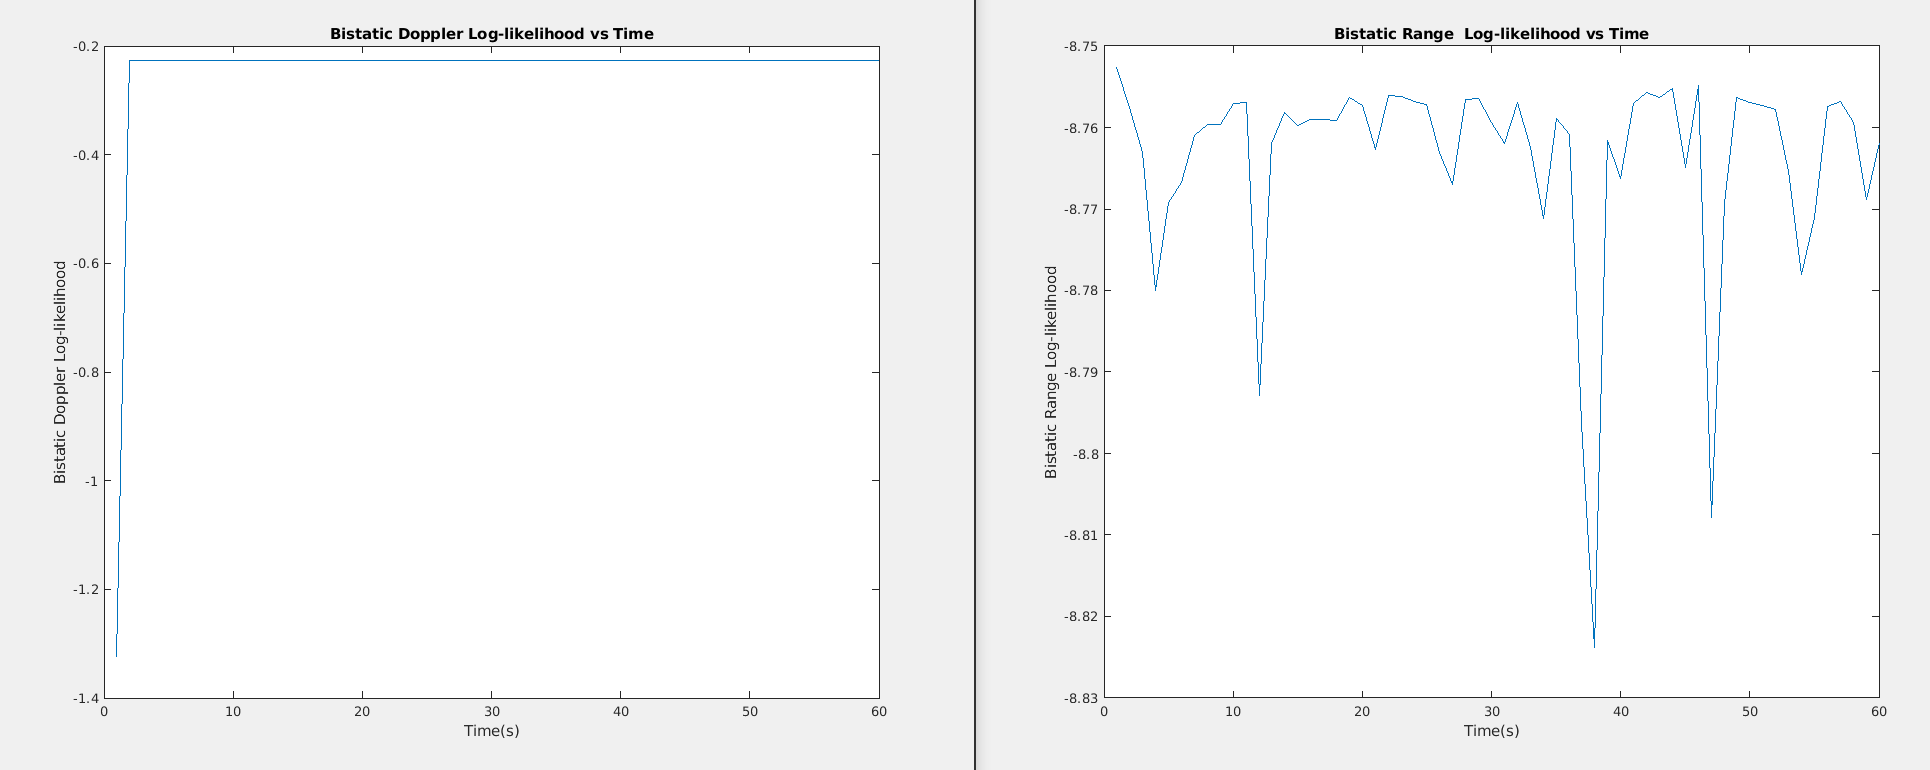
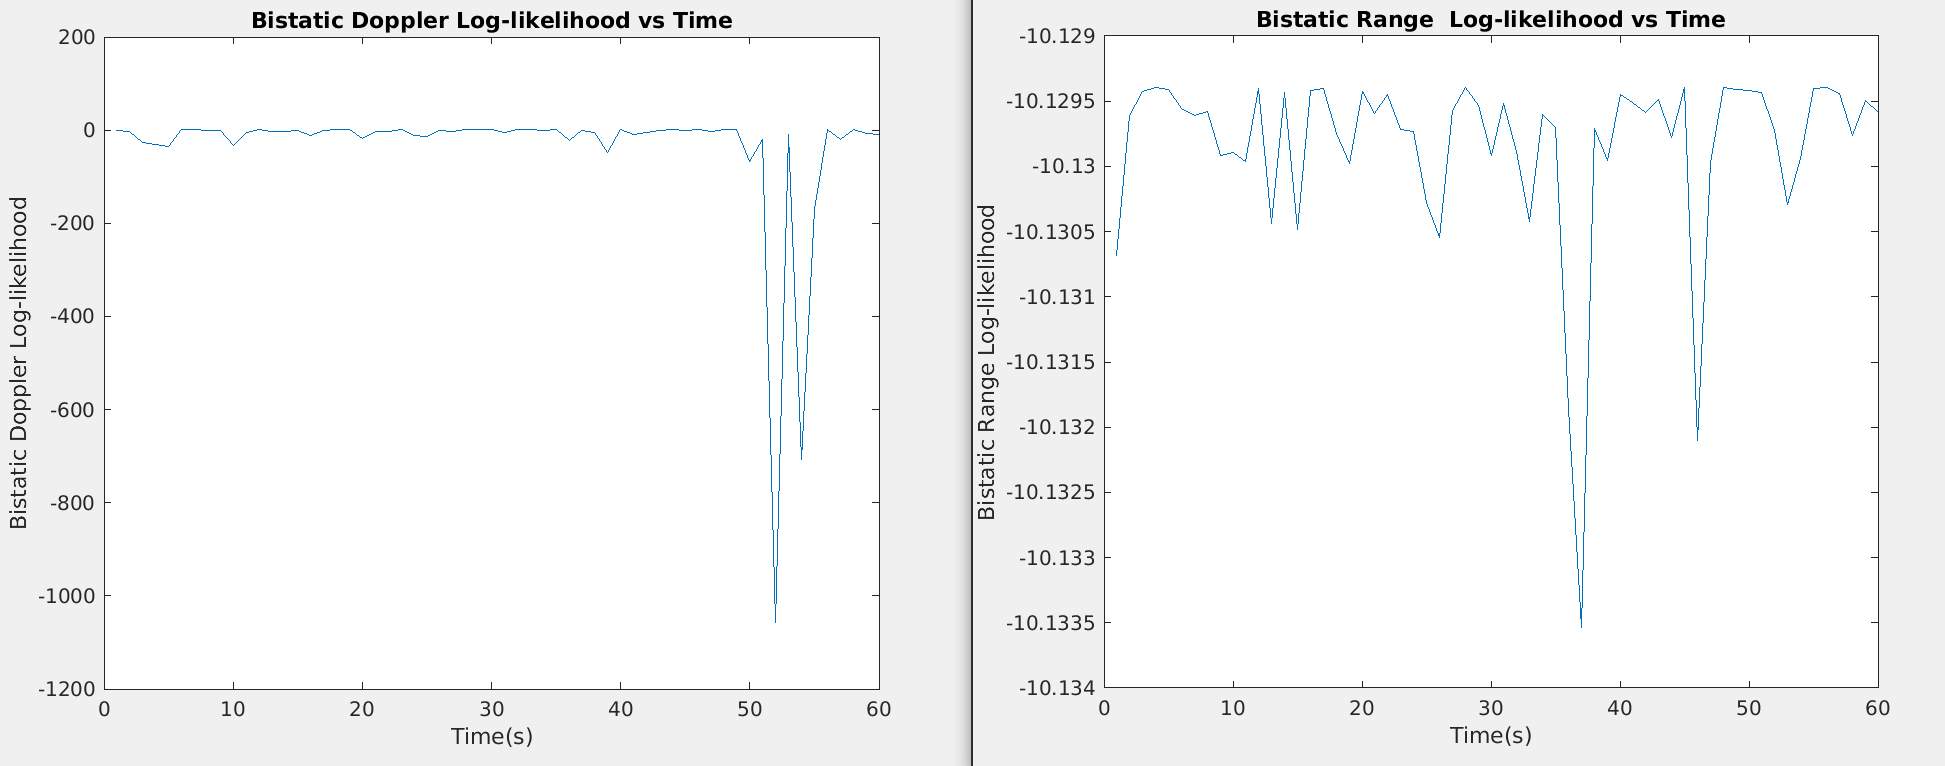
Kalman FIlter with NCA model and Wierner Process Noise for Optimal Q

diff --git a/TrackingFilter-KalmanFilter/kalmanFilter.m b/TrackingFilter-KalmanFilter/kalmanFilter.m
@@ -28,9 +28,9 @@ classdef kalmanFilter
 
             
 
-            obj.Q = [(dt^5)/20, (dt^4)/8, (dt^3)/6;
-                    (dt^4)/8,(dt^3)/3, (dt^2)/2;
-                    (dt^3)/6, (dt^2)/2,dt]*std_acc;
+            obj.Q = [(dt^4)/4, (dt^3)/2, (dt^2)/2;
+                     (dt^3)/2, dt^2, dt;
+                     (dt^2)/2, dt , 1]*std_acc;
 
 
             obj.R = [r_std^2,0;0,rdot_std^2];              % Measurement Uncertainty
